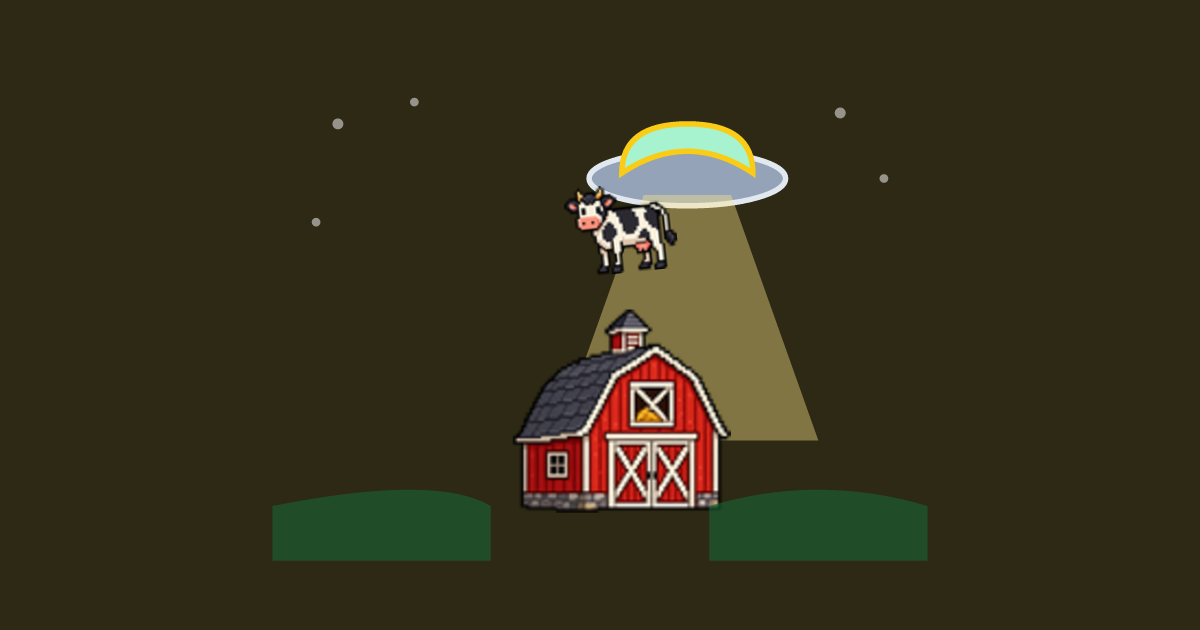
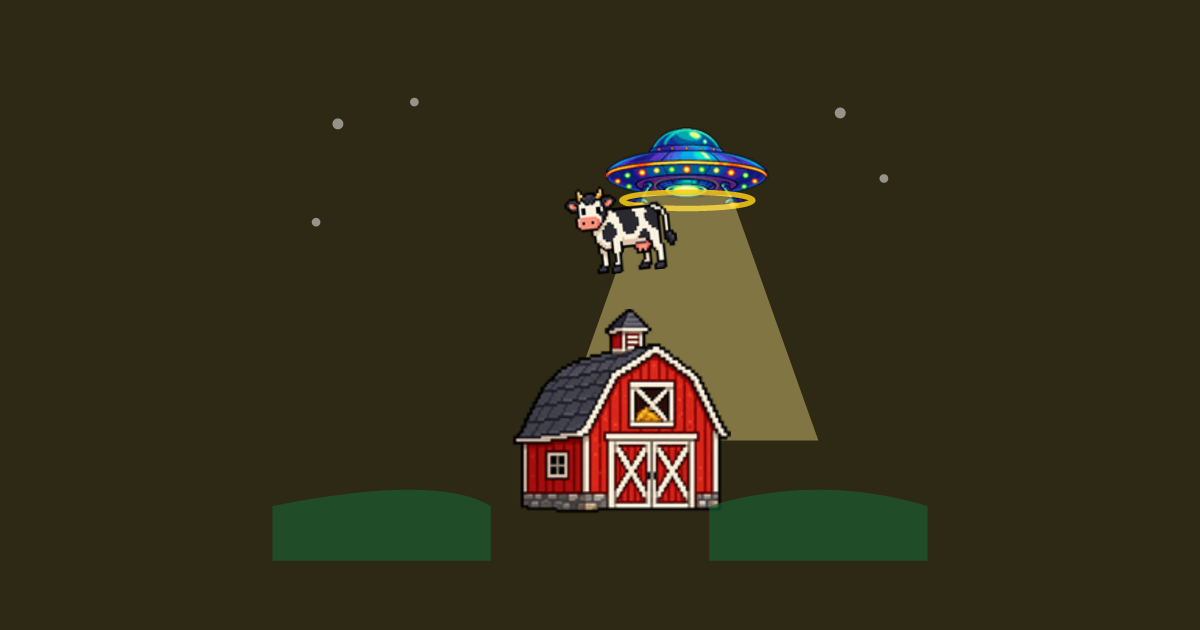
game: use the real ufo.png sprite in aliens love cows
Round screen and hub card both rendered a hand-drawn UFO
approximation; the game now has a real ufo.png sprite, so both
switch to cropping it the same way the barn and cow already are.

diff --git a/www/src/games/aliens-love-cows/AbductScreen.tsx b/www/src/games/aliens-love-cows/AbductScreen.tsx
@@ -15,7 +15,7 @@ import { cowGridSlot, ufoDriftAt, ufoHoverAt, type AbductView } from './game';
 import cowArt from './art/cow.png?url&no-inline';
 import barnArt from './art/barn.png?url&no-inline';
 import barnDestroyedArt from './art/barn_destroyed.png?url&no-inline';
-import ufoArt from './art/ufo.svg?url&no-inline';
+import ufoArt from './art/ufo.png?url&no-inline';
 
 /**
  * The round screen: five barns, everyone's cow, one drifting UFO.

diff --git a/docs/design/illustrations.md b/docs/design/illustrations.md
@@ -237,8 +237,8 @@ love cows, Random Game, Gravity Shooter, Asteroid Race and Tilt Race. Every
 other card redraws its sprite's shape as fresh paths (this section's Goat
 Siege/Sling Puck/Spill examples); Tap Fighter's `card.svg` instead embeds
 base64 crops of the actual `fighter1.png`/`fighter2.png` frames, Aliens love
-cows' embeds crops of its own `barn.png`/`cow.png` (the UFO, its cone, the
-stars and the ground stay fresh vector paths around them), Random Game's
+cows' embeds crops of its own `ufo.png`, `barn.png` and `cow.png` (the cone,
+the stars and the ground stay fresh vector paths around them), Random Game's
 embeds a downscaled crop of `art/src/dice.png` over a mosaic of eight other
 games' own card art (the mosaic tiles stay fresh — they are those games' real
 `card.svg` markup, not a redraw), Gravity Shooter's embeds its own two ship
@@ -248,11 +248,18 @@ its own `car.png` plus a small tile of `road.jpg` — because a hand-drawn
 approximation of a detailed authored photo or pixel-art subject reads worse
 than the real thing at this size (#41).
 
-**Four of the six are generated** rather than hand-assembled, all gated by a
+**Five of the six are generated** rather than hand-assembled, all gated by a
 committed content-hash manifest (`art/.card-manifest.json`) the same way
 `og.mjs` guards its own derived PNGs, all regenerated by an `art:` script, and
 all failing `npm test` when the committed file is stale:
 
+- `aliens-love-cows/generate-card.mjs` crops `ufo.png`, `barn.png` and
+  `cow.png` straight out of this game's own `art/` (`npm run art:abduct-card`)
+  — the last of the three subjects to move off a hand-drawn approximation
+  once the round screen itself got a real UFO sprite. A cropped photo cannot
+  carry a stroke, so the card's own accent (required by `cards.test.mjs`) is
+  a thin ring at the ship's own rim instead of the old dome outline's colour.
+  The cone, the stars and the ground stay hand-drawn vector.
 - `random-game/generate-card.mjs` extracts the eight mosaic tiles and
   crops/embeds the die on every run (`npm run art:random-card`).
 - `gravity-shooter/generate-card.mjs` composes that game's own sprites **and

diff --git a/docs/specs/games/aliens-love-cows.md b/docs/specs/games/aliens-love-cows.md
@@ -6,7 +6,7 @@
 | --- | --- |
 | **Slug** | `aliens-love-cows` |
 | **Catchy sentence** | *Pick a barn. Dodge the beam* |
-| **Illustration** | `www/src/games/aliens-love-cows/art/card.svg` — a UFO's light cone over a barn, a cow mid-abduction, the barn and cow the maintainer's own art (spec §12) |
+| **Illustration** | `www/src/games/aliens-love-cows/art/card.svg` — a UFO's light cone over a barn, a cow mid-abduction, the UFO, barn and cow the maintainer's own art (spec §12), generated by `generate-card.mjs` |
 | **Players** | 2–8 |
 | **Round length** | No fixed count — each round is up to 5 s to pick a barn (ends early once everyone has), a 3 s "3, 2, 1," then 5 s to watch the UFO hover, fly in and abduct; rounds repeat until one cow is left standing, or until only one barn is left standing and the UFO gives up (a 2 s farewell) |
 | **Inputs** | touch |
@@ -125,9 +125,10 @@ Only `classic` at launch.
   the screen (fewer once one is destroyed, §2.1) and every still-in,
   connected player's cow lined up along the bottom edge when unplaced. A
   cow taken out in an earlier round is never drawn again (§2.2). **Your own
-  cow is drawn at full opacity; everyone else's sits at 70%** — the cow and
-  barn art are the maintainer's own pixel-art files (`art/cow.png`,
-  `art/barn.png`), used as given rather than redrawn (spec §12). During
+  cow is drawn at full opacity; everyone else's sits at 70%** — the UFO, cow
+  and barn art are the maintainer's own pixel-art files (`art/ufo.png`,
+  `art/cow.png`, `art/barn.png`), used as given rather than redrawn (spec
+  §12). During
   **waiting**, a banner sits between the UFO and the barns reading *"Hide
   your cow behind a barn!"*, wrapping rather than overflowing on a narrow
   phone; once every still-in player has a barn, the same banner switches to
